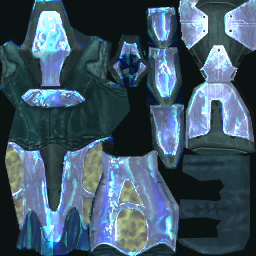
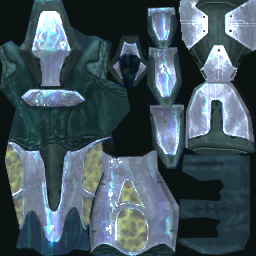
Ranger helmet in its body's material, cube-mapped eye lenses; deep-fried skin check
- The Ranger's helmet is baked like its body (the steel recolour and the Elites' armour reflection), brought down
  to the body's tone first; the Ranger's armour reflection is gentler overall
- The Ranger's eye lenses use the visor shader (a cube map per pixel), their normals bowed so it sweeps across them
- skin_check.py: every baked skin is scored against its source after each build (blown highlights, washed-out
  glare, brightness lift, crushed blacks, over-sharpening); HCE_STRICT_SKINS=1 fails the build

Claude-Session: https://claude.ai/code/session_01Ja8vbkayn83DPTjJrhXLXZ

diff --git a/generator/build_pack.py b/generator/build_pack.py
@@ -116,6 +116,8 @@ ELITE_H2_ARMOUR = {   # new rank -> (Halo CE variant it copies per gun, colour, 
                RANGER_STEEL, ('ranger_helmet', 'elite_jetpack'), ('HCE_Jetpack',)),
 }
 
+SKIN_PAIRS = []      # (source texture, baked skin): skin_check.py's deep-fried check after each build
+
 NOHEAD_BONES = ('bip01 head', 'frame mandible lower left', 'frame mandible lower right', 'frame mandible upper left',
                 'frame mandible upper right')
 
@@ -153,13 +155,17 @@ def nohead_iqm(src, dst):
     open(dst, 'wb').write(bytes(d))
     return cut
 
-def elite_kit_code(pieces, mdir='hce'):
+def elite_kit_code(pieces, mdir='hce', skins=()):
     """attach Halo 2's armour pieces (models 1..) to a CE Elite; a severed head takes its helmet (model 1) with it,
     a severed arm its plates (the honor armour's limb surfaces)"""
     kj = f'{ELITE_KIT}/EliteKit.json'
     limbs = json.load(open(kj)).get('limbs', {}) if os.path.exists(kj) else {}
     hid = f'"models/{mdir}/weapons", \'hce_hidden.png\', CMDL_USESURFACESKIN'
     att = ''.join(f'\t\tA_ChangeModel(\'None\', {k + 1}, "models/{mdir}/EliteKit", "{p}.iqm", {k + 1}, "", \'None\');\n' for k, p in enumerate(pieces))
+    for p, mesh, tex in skins:          # a piece's surface in another skin (the Ranger's helmet in its body's material)
+        si = limbs.get(p, []).index(mesh) if mesh in limbs.get(p, []) else -1
+        if si >= 0 and p in pieces:
+            att += f'\t\tA_ChangeModel(\'None\', {pieces.index(p) + 1}, "", \'None\', {si}, "models/{mdir}/EliteKit", \'{tex}\', CMDL_USESURFACESKIN);\n'
     sev = []
     head = pieces[0]
     if head in limbs:
@@ -173,6 +179,43 @@ def elite_kit_code(pieces, mdir='hce'):
             '\toverride void PostBeginPlay()\n\t{\n\t\tsuper.PostBeginPlay();\n' + att + '\t}\n'
             '\toverride void HCE_OnSever(int limb, bool gunArm)\n\t{\n\t\tsuper.HCE_OnSever(limb, gunArm);\n' + ''.join(sev) + '\t}\n')
 
+RANGER_HELMET_SKIN = 'ek_ranger_helmet_steel.png'
+RANGER_HELMET_TONE = 0.72
+
+def ranger_helmet_skin(dst):
+    """the Ranger's helmet in the same material as its body (bake_vivid + add_shine): Halo 2's helmet paint, its
+    light and shade kept, turned the Ranger's steel with the vivid ranks' highlight, then the Elites' rank cube-map
+    reflection baked in from the helmet's own normals (rasterised from the model into its texture), the paint's relief
+    bending it as on the body"""
+    from iqm import read_iqm
+    from scipy import ndimage
+    color = VIVID['elite ranger']
+    _, meshes, _ = read_iqm(f'{ELITE_KIT}/ranger_helmet.iqm')
+    base = Image.open(f'{ELITE_KIT}/ek_ranger_helmet.png').convert('RGB')
+    b = np.asarray(base).astype(np.float32) / 255.0
+    # Halo 2's helmet paint is a lot lighter than the CE body's: brought down to the body's (RANGER_HELMET_TONE) before
+    # the recolour, or the vivid ranks' highlight and the reflection wash it out (skin_check: glare, lift)
+    lum = b.mean(axis=2, keepdims=True) * RANGER_HELMET_TONE
+    col = np.array(color, np.float32).reshape(1, 1, 3)
+    rgb = np.clip(col * (0.12 + 1.15 * lum) + np.clip(lum - 0.62, 0, 1) * 0.8, 0, 1)      # bake_vivid's armour
+    faces = cube_faces(SHINE_CUBE['Elite'], cube_index('Elite', color))
+    if faces is not None:
+        W_, H_ = base.size
+        n = raster_normals(meshes, 'ek_ranger_helmet.png', (W_, H_)).copy()
+        lm = ndimage.gaussian_filter(rgb.mean(axis=2), 1.2)                                 # add_shine, the helmet's normals
+        gy, gx = np.gradient(lm)
+        t1 = np.cross(n, np.array([0, 0, 1.0], np.float32)); t1 /= np.maximum(np.linalg.norm(t1, axis=2, keepdims=True), 1e-3)
+        t2 = np.cross(n, t1)
+        n = n + (gx[..., None] * t1 + gy[..., None] * t2) * 6.0
+        n /= np.maximum(np.linalg.norm(n, axis=2, keepdims=True), 1e-6)
+        view = np.array([-1.0, 0.0, -0.25], np.float32); view /= np.linalg.norm(view)
+        r = view - 2 * (n @ view)[..., None] * n
+        env = np.clip(sample_cube(faces, r) * 1.15, 0, 1) ** 1.35 * 1.7
+        fres = 0.75 + 0.5 * (1 - np.abs(n @ view)) ** 2
+        spec = np.clip((lum[..., 0] - 0.08) * 4, 0, 1) * VIVID_SHINE['elite ranger']     # bare dark seals and vents stay dull
+        rgb = np.clip(rgb * (1 - 0.3 * spec[..., None]) + env * (spec * SHINE['Elite'] * fres)[..., None], 0, 1)
+    Image.fromarray((rgb * 255).astype(np.uint8)).save(dst)
+
 def add_elite_h2_armour(variants):
     import copy
     if not os.path.exists(f'{ELITE_KIT}/EliteKit.json'): return
@@ -185,7 +228,8 @@ def add_elite_h2_armour(variants):
             cl[0].update(color_lower_bound=list(rgb), color_upper_bound=list(rgb))
             v['change_colors_list'] = cl
             v['_late'] = True
-            v['_ov'] = dict(v.get('_ov') or {}, code=elite_kit_code(pieces), add_flags=list(extra), nohead=True)
+            skins = (('ranger_helmet', 'helmet_ranger_helmet_0', RANGER_HELMET_SKIN),) if rank == 'ranger' else ()
+            v['_ov'] = dict(v.get('_ov') or {}, code=elite_kit_code(pieces, skins=skins), add_flags=list(extra), nohead=True)
             variants[vn] = v
 
 add_elite_h2_armour(AI['variants'])
@@ -742,7 +786,7 @@ def cube_index(char, color):
     if h < 75: return 2
     return 0
 
-def add_shine(char, mat, rgb, color=None):
+def add_shine(char, mat, rgb, color=None, scale=1.0):
     """rgb (H, W, 3) floats 0..1, the finished skin colours -> with Halo's armour reflection baked in"""
     k = SHINE.get(char)
     mp = f'{OUT}/models/{char}/{mat}_multi.png'
@@ -766,6 +810,7 @@ def add_shine(char, mat, rgb, color=None):
     env = sample_cube(faces, r)
     fres = 0.75 + 0.5 * (1 - np.abs(n @ view)) ** 2                               # brighter towards grazing angles
     env = np.clip(env * 1.15, 0, 1) ** 1.35 * 1.7                                   # Halo adds it bright: its swirls read as liquid metal
+    spec = spec * scale
     s = env * (spec * k * fres)[..., None]
     if char in HUE_LOCK:
         # the Grunts: the Elites' rank cube only on the painted armour (Halo's colour-change mask); their bare metal,
@@ -892,9 +937,10 @@ def hue_lock(rgb, mask, color):
 # armour, came out a muddy olive. Halo draws it with a bright specular sheen we can't, so the armour is re-baked as
 # a vibrant gold that keeps the armour's shading (dark creases stay darker, raised edges catch the light).
 VIVID = {'elite commander': (1.00, 0.78, 0.22), 'elite ranger': (0.72, 0.78, 0.86)}   # the Ranger: Halo 2's pale EVA steel
+VIVID_SHINE = {'elite ranger': 0.35}     # how strong their armour's reflection is (on the pale steel the full one glared)
 UNDERSUIT = (0.30, 0.52, 0.52)
 
-def bake_vivid(char, mat, color, outpath):
+def bake_vivid(char, mat, color, outpath, shine=1.0):
     base = Image.open(f'{OUT}/models/{char}/{mat}.png').convert('RGB')
     mp = f'{OUT}/models/{char}/{mat}_multi.png'
     if not os.path.exists(mp):
@@ -914,7 +960,7 @@ def bake_vivid(char, mat, color, outpath):
     msk = msk * (1 - hm)
     o = suit * (1 - msk) + gold * msk
     glove = np.array(UNDERSUIT, dtype=np.float32).reshape(1, 1, 3) * (0.18 + 0.55 * lum)   # dark slate, shading kept
-    o = add_shine(char, mat, o * (1 - hm) + glove * hm, color)
+    o = add_shine(char, mat, o * (1 - hm) + glove * hm, color, shine)
     Image.fromarray(np.clip(o * 255, 0, 255).astype(np.uint8)).save(outpath)
 
 def hand_mask(char, mat, size):
@@ -1424,6 +1470,9 @@ def build(cfg=None):
             os.makedirs(f'{pack}/models/{mdir}/EliteKit', exist_ok=True)
             for f in os.listdir(ELITE_KIT):
                 if f.endswith(('.iqm', '.png')): shutil.copy(f'{ELITE_KIT}/{f}', f'{pack}/models/{mdir}/EliteKit/{f}')
+            if not os.path.exists(f'{pack}/models/{mdir}/EliteKit/{RANGER_HELMET_SKIN}'):
+                ranger_helmet_skin(f'{pack}/models/{mdir}/EliteKit/{RANGER_HELMET_SKIN}')
+            SKIN_PAIRS.append((f'{ELITE_KIT}/ek_ranger_helmet.png', f'{pack}/models/{mdir}/EliteKit/{RANGER_HELMET_SKIN}'))
         if char.startswith('Marine') and os.path.exists(f'{MARINE_KIT}/MarineKit.json'):    # Elefant's Marine kit
             os.makedirs(f'{pack}/models/{mdir}/MarineKit', exist_ok=True)
             for f in os.listdir(MARINE_KIT):
@@ -1679,7 +1728,7 @@ def build(cfg=None):
                 if not os.path.exists(dst):
                     vivid = next((c for k, c in VIVID.items() if k in vname), None)
                     if v.get('_hunter_color'): bake_hunter(char, matn, v['_hunter_color'], dst)
-                    elif vivid: bake_vivid(char, matn, vivid, dst)
+                    elif vivid: bake_vivid(char, matn, vivid, dst, next((x for k, x in VIVID_SHINE.items() if k in vname), 1.0))
                     elif elite_skin(char, matn, color, dst, specops='specops' in vname): pass
                     elif 'specops' in vname and (char.startswith('Elite') or (char == 'GruntSpecOps' and max(color or (1,)) < 0.2)):
                         # the Spec Ops body's own textures: baked as a blue Minor (the blue cube-map sheen the painted
@@ -1689,6 +1738,7 @@ def build(cfg=None):
                         if char == 'GruntSpecOps': grunt_purple(char, matn, dst)
                         else: purple(Image.open(dst).convert('RGB')).save(dst)
                     else: bake_skin(char, matn, color, dst)
+                SKIN_PAIRS.append((f'{OUT}/models/{char}/{matn}.png', dst))        # skin_check: the bake against its source
                 skin_lines.append(f'\tSurfaceSkin 0 {si} "skins/{fn}"')
             friendly = '\t\t+FRIENDLY\n' if team[char] == 'HUMAN' else ''
             props = f'''\t\tHealth {body};
@@ -1899,6 +1949,7 @@ def build(cfg=None):
     gl += odst_visors(pack, mdir, md)
     # the Marine kit's enclosed helmets: the same reflection on their orange visor
     gl += kit_visors(pack, mdir)
+    gl += elite_lens_visors(pack, mdir)
     tg = cfg['tag']
     open(f'{pack}/gldefs.{tg}', 'w').write('\n'.join(gl) + '\n')
     # HCEM A: placeholder sprite. Models draw instead, but the map spawner rejects actors whose sprite
@@ -1914,6 +1965,11 @@ def build(cfg=None):
     open(f'{pack}/mapinfo.txt', 'w').write('\n'.join(mi))
     json.dump(dict(ednums=ednums, spawners=spawners), open(f'{OUT}/{cfg["index"]}', 'w'), indent=1)
     print('classes', len(ednums), 'projectiles', len(done))
+    # deep-fried skins: every baked skin against the texture it was baked from (skin_check.py; HCE_STRICT_SKINS=1 fails
+    # the build on one)
+    import skin_check
+    skin_check.report_pairs(SKIN_PAIRS)
+    SKIN_PAIRS.clear()
 
 # per-character extra ZScript (Flood corpse feeding, carrier pop, infection pop)
 BASE_CODE = {}       # char -> ZScript put in its abstract base class once (shared by all its variants)
@@ -2515,6 +2571,24 @@ def kit_visors(pack, mdir):
         out.append(f'material texture "models/{mdir}/MarineKit/{tex}"\n{{\n\tshader "shaders/hce_visor.fp"\n'
                    f'\ttexture tex_cube "models/{mdir}/MarineKit/{KIT_VISOR_CUBE}"\n}}')
     return out
+
+ELITE_LENSES = ('ek_ranger_lens.png',)   # Halo 2's Ranger's gold eye lenses (extract_h2_elite_kit.py)
+ELITE_LENS_CUBE = 'ek_visor_cube.png'
+
+def elite_lens_visors(pack, mdir):
+    """the Ranger's eye lenses get the visors' cube-map reflection (VISOR_SHADER, tinted by the lens's own gold, over
+    Halo CE's cyborg reflection cube map, as the ODST and kit visors)"""
+    d = f'{pack}/models/{mdir}/EliteKit'
+    lenses = [t for t in ELITE_LENSES if os.path.exists(f'{d}/{t}')]
+    if not lenses: return []
+    if not os.path.exists(f'{MARINE_KIT}/{KIT_VISOR_CUBE}'):
+        from extract_odst import cube_strip
+        cube_strip('cyborg', f'{MARINE_KIT}/{KIT_VISOR_CUBE}')
+    shutil.copy(f'{MARINE_KIT}/{KIT_VISOR_CUBE}', f'{d}/{ELITE_LENS_CUBE}')
+    os.makedirs(f'{pack}/shaders', exist_ok=True)
+    open(f'{pack}/shaders/hce_visor.fp', 'w').write(VISOR_SHADER)
+    return [f'material texture "models/{mdir}/EliteKit/{t}"\n{{\n\tshader "shaders/hce_visor.fp"\n'
+            f'\ttexture tex_cube "models/{mdir}/EliteKit/{ELITE_LENS_CUBE}"\n}}' for t in lenses]
 
 def odst_visors(pack, mdir, md):
     """GLDEFS materials giving each ODST visor skin the visor shader and its cube map"""

diff --git a/generator/skin_check.py b/generator/skin_check.py
@@ -1,0 +1,124 @@
+"""Deep-fried skin check: flags baked textures that have been pushed too far (blown-out highlights, neon saturation,
+crunchy over-sharpened contrast, crushed blacks), so a recolour or a baked reflection that glares is caught at build
+time instead of in game.
+
+    python3 skin_check.py [dir or png ...]     # report on these (default: every texture build_pack.py baked into pack/)
+    import skin_check; skin_check.report(paths)  # build_pack.py runs it after baking; HCE_STRICT_SKINS=1 makes it fail
+
+A baked skin is judged against the texture it was baked from (build_pack.py registers each pair: SKIN_PAIRS), since
+deep frying is what a bake does to a texture: a source that is meant to be a flat bright colour stays fine. Each is
+scored on what "deep fried" looks like, measured over its painted texels (fully transparent and flat-black padding
+left out):
+  * blown:  share of texels with a channel at 250+ (detail lost to white or a pure primary)
+  * neon:   share of bright texels (value > 0.8) that are also near-fully saturated (saturation > 0.85)
+  * crunch: high-frequency contrast (mean absolute Laplacian) per unit of the texture's own tonal range -- noise and
+            edges sharpened up past what a painted game texture has
+  * crush:  share of texels at 5 or below in every channel (shadow detail lost to black)
+  * glare:  share of near-white texels: value 0.85 and up with little colour left (saturation under 0.4), where
+            highlights and reflections wash the paint out (a bright, saturated gold or orange is paint, not glare)
+  * lift:   mean value (brightness)
+A bake fails when it raises one of these past PAIR_LIMITS over its source (crunch as a ratio). The limits sit just
+above the worst of the pack's approved skins (Halo CE's painted skins, the ranks' recolours, the kit; neon is reported
+but not judged: the red Hunters and the Grunts' oranges are meant to be loud), so a new bake has to look like them;
+the Ranger's first steel helmet (glare +0.09, lift +0.19) is the case it was written for.
+Textures that are meant to glow (energy blades, shields, lights, visors, the flag) are left out.
+"""
+import os, sys, json
+import numpy as np
+from PIL import Image
+
+LIMITS = dict(blown=0.08, neon=0.30, crunch=0.55, crush=0.35)          # a texture on its own (no source)
+PAIR_LIMITS = dict(blown=0.25, crunch=2.2, crush=0.03, glare=0.12, lift=0.16)    # a bake against its source
+SKIP = ('blade', 'shield', 'visor', 'lens', 'flag', 'light', 'glow', 'illum', 'hidden', 'brightmap', 'cube', 'gore_',
+        'blood', 'camo', 'flame', 'exhaust', 'muzzle', 'hce_noblood', 'eyes', 'teeth', 'sword')
+
+
+def metrics(path):
+    im = Image.open(path)
+    a = np.asarray(im.convert('RGBA'), np.float32)
+    rgb = a[..., :3]; alpha = a[..., 3]
+    painted = (alpha > 8) & (rgb.max(axis=2) > 2)
+    if painted.sum() < 64: return None
+    px = rgb[painted]
+    mx = px.max(axis=1); mn = px.min(axis=1)
+    v = mx / 255.0; sat = np.where(mx > 0, (mx - mn) / np.maximum(mx, 1e-6), 0)
+    blown = float((mx >= 250).mean())
+    bright = v > 0.8
+    neon = float(((sat > 0.85) & bright).sum() / max(bright.sum(), 1)) if bright.sum() > 32 else 0.0
+    crush = float((mx <= 5).mean())
+    glare = float(((v >= 0.85) & (sat < 0.4)).mean()); lift = float(v.mean())
+    lum = rgb.mean(axis=2)
+    lap = np.abs(4 * lum[1:-1, 1:-1] - lum[:-2, 1:-1] - lum[2:, 1:-1] - lum[1:-1, :-2] - lum[1:-1, 2:])
+    m = painted[1:-1, 1:-1]
+    rng = np.percentile(lum[painted], 95) - np.percentile(lum[painted], 5)
+    crunch = float(lap[m].mean() / max(rng, 8.0)) if m.sum() > 0 else 0.0
+    return dict(blown=blown, neon=neon, crunch=crunch, crush=crush, glare=glare, lift=lift)
+
+
+def judge(m):
+    return [k for k, lim in LIMITS.items() if m[k] > lim]
+
+
+def judge_pair(out, src):
+    """the measures a bake pushed past PAIR_LIMITS over its source, with how far"""
+    bad = {}
+    for k, lim in PAIR_LIMITS.items():
+        d = out[k] / max(src[k], 0.02) if k == 'crunch' else out[k] - src[k]
+        if d > lim: bad[k] = d
+    return bad
+
+
+def report_pairs(pairs, quiet=False):
+    """[(source png, baked png)] -> [(baked, {measure: rise})] for the deep-fried ones (printed); each baked file once"""
+    bad = []; seen = set(); cache = {}
+    def m(p):
+        if p not in cache: cache[p] = metrics(p) if os.path.exists(p) else None
+        return cache[p]
+    for src, out in pairs:
+        if out in seen or any(k in os.path.basename(out).lower() for k in SKIP): continue
+        seen.add(out)
+        a, b = m(out), m(src)
+        if not a or not b: continue
+        f = judge_pair(a, b)
+        if f: bad.append((out, f))
+    if not quiet:
+        print(f'skin check: {len(seen)} baked skins against their sources, {len(bad)} look deep fried')
+        for out, f in bad:
+            print(f'  DEEP FRIED {out}: ' + ', '.join(f'{k} +{d:.2f} (limit {PAIR_LIMITS[k]})' if k != 'crunch' else f'crunch x{d:.2f} (limit {PAIR_LIMITS[k]})' for k, d in f.items()))
+    if bad and os.environ.get('HCE_STRICT_SKINS') == '1':
+        raise SystemExit(f'skin check failed: {len(bad)} deep-fried skins')
+    return bad
+
+
+def collect(paths):
+    out = []
+    for p in paths:
+        if os.path.isdir(p):
+            for root, _, fs in os.walk(p):
+                out += [os.path.join(root, f) for f in fs if f.lower().endswith('.png')]
+        elif p.lower().endswith('.png'): out.append(p)
+    return [p for p in sorted(out) if not any(k in os.path.basename(p).lower() for k in SKIP)]
+
+
+def report(paths, quiet=False, out_json=None):
+    """score every texture under paths; print the deep-fried ones; returns [(path, failed measures, metrics)]"""
+    bad = []; allm = {}
+    for p in collect(paths):
+        m = metrics(p)
+        if m is None: continue
+        allm[p] = m
+        f = judge(m)
+        if f: bad.append((p, f, m))
+    if out_json: json.dump(allm, open(out_json, 'w'), indent=0)
+    if not quiet:
+        print(f'skin check: {len(allm)} textures, {len(bad)} look deep fried')
+        for p, f, m in bad:
+            print(f'  DEEP FRIED {p}: ' + ', '.join(f'{k} {m[k]:.2f} (limit {LIMITS[k]})' for k in f))
+    if bad and os.environ.get('HCE_STRICT_SKINS') == '1':
+        raise SystemExit(f'skin check failed: {len(bad)} deep-fried textures')
+    return bad
+
+
+if __name__ == '__main__':
+    args = sys.argv[1:] or [os.path.join(os.path.dirname(os.path.abspath(__file__)), 'pack', 'models')]
+    report(args)

diff --git a/generator/extract_h2_elite_kit.py b/generator/extract_h2_elite_kit.py
@@ -84,6 +84,30 @@ def colour_map(m, hb, bms, out):
     print('   ', out, 'from', diff[0].split('\\')[-1], 'bump' if bump else '', 'detail' if det else '')
 
 
+LENS_BULGE = 1.6       # how far the lens normals lean out from each lens's centre (a domed glass for the visor shader)
+
+
+def bulge(P, N, tris):
+    """a flat lens's normals leaned outward from the centre of each separate lens (its connected triangles), as if the
+    glass were domed: the visor shader's cube-map reflection then sweeps across it instead of one flat colour"""
+    n = len(P); parent = list(range(n))
+    def f(x):
+        while parent[x] != x: parent[x] = parent[parent[x]]; x = parent[x]
+        return x
+    for t in tris:
+        a, b, c = f(int(t[0])), f(int(t[1])), f(int(t[2])); parent[b] = a; parent[f(c)] = a
+    roots = np.array([f(i) for i in range(n)]); out = N.copy()
+    for r in set(roots.tolist()):
+        k = roots == r
+        if k.sum() < 3: continue
+        c = P[k].mean(0); rad = max(np.linalg.norm(P[k] - c, axis=1).max(), 1e-6)
+        avg = N[k].mean(0); avg /= max(np.linalg.norm(avg), 1e-6)
+        d = P[k] - c; d -= (d @ avg)[:, None] * avg                       # in the lens's own plane
+        v = avg + LENS_BULGE * d / rad
+        out[k] = v / np.linalg.norm(v, axis=1, keepdims=True)
+    return out
+
+
 def lens_texture():
     from PIL import Image
     t, b = np.array(LENS_RGB[0]), np.array(LENS_RGB[1])
@@ -161,6 +185,7 @@ def main():
             else:
                 mat = texture_for(R, mm['shader'])
             P, N, cb, w8 = retarget(mm, h2w, cew, tomap)
+            if mat == LENS: N = bulge(P, N, mm['tris'])
             tris = np.array(mm['tris'])[:, [0, 2, 1]]
             # one surface per limb (body, left arm, right arm), so a severed arm's plates can go with it
             limb = np.array([LIMB.get(J[cb[t[0], 0]][0], 0) for t in tris]) if pid in SPLIT else np.zeros(len(tris), int)

diff --git a/docs/PACK_README.md b/docs/PACK_README.md
@@ -321,7 +321,7 @@ DoomEdNums 30284–30316 (alphabetical: `HCE_MarineArmoredBattleRifle` … `HCE_
   * They get the same baked armour shine as the other Grunts, and are in the `HCE_RandomGrunt` / `HCE_RandomGruntSpecOps` spawners; Doom's monsters aren't replaced by them.
 * **Elite Heavy (new, green):** a rank between the Major and the Commander, in a deep green (the blue Minor's painted armour turned green, its shading and shine kept): 125 health and a 200-point shield, the Major's combat behaviour, and the heavier guns: the fuel rod in Halo 2's fuel-rod stance (`HCE_EliteHeavyFuelRod`, 30322), the plasma rifle (`HCE_EliteHeavyPlasmaRifle`, 30324) and the needler (`HCE_EliteHeavyNeedler`, 30323). In the random Elite pool, and among the Hell Knights' replacements on the harder skill levels.
 * **Honor Guard Elites (new):** the High Council's guard in Halo 2's honour armour, worn over the Halo CE Elite (`extract_h2_elite_kit.py`: Halo 2's Elite and Halo CE's are the same skeleton, so its pieces are carried bone by bone onto the CE Elite and play every CE animation). The tall twin-crested ceremonial helmet over Halo 2's Elite head, and the honour plates on the shoulders, arms and thighs, blue with their glowing red markings; the CE Elite's own head and helmet are cut away underneath, so nothing clashes. The Commander's build (they guard the Prophets) in a crimson harness, with the **plasma rifle** (`HCE_EliteHonorGuardPlasmaRifle`, 30345), the **energy sword** (`HCE_EliteHonorGuardEnergySword`, 30344, charging and berserk like the sword Elites) or the **plasma carbine** (`HCE_EliteHonorGuardPlasmaCarbine`, 30457, Digsite add-on): the Honor Guards' guns in Halo's fiction. A severed head takes the helmet with it, a severed arm its plates.
-* **Ranger Elites (new):** Halo 2's EVA Elites from Regret's towers, with a **jump pack**. Halo 2's sealed Ranger helmet, with its gold lens, over the CE Elite with its own head cut away, and Halo 2's jump pack on its back (placed where Halo 2's Ranger carries it), in pale EVA steel. A Minor's build (Halo 2's `elite_ranger` char: 30 body, 70 shield), with the **plasma rifle** (`HCE_EliteRangerPlasmaRifle`, 30347), the **needler** (`HCE_EliteRangerNeedler`, 30346) or the **plasma carbine** (`HCE_EliteRangerPlasmaCarbine`, 30458, Digsite add-on).
+* **Ranger Elites (new):** Halo 2's EVA Elites from Regret's towers, with a **jump pack**. Halo 2's sealed Ranger helmet, with its gold eye lenses (reflecting a cube map per pixel like the ODST visors, the glass bowed so the reflection sweeps across it), over the CE Elite with its own head cut away, and Halo 2's jump pack on its back (placed where Halo 2's Ranger carries it), in pale EVA steel; the helmet is baked in the same material as the body (the same steel and the same, gentler, armour reflection). A Minor's build (Halo 2's `elite_ranger` char: 30 body, 70 shield), with the **plasma rifle** (`HCE_EliteRangerPlasmaRifle`, 30347), the **needler** (`HCE_EliteRangerNeedler`, 30346) or the **plasma carbine** (`HCE_EliteRangerPlasmaCarbine`, 30458, Digsite add-on).
   * **The jump pack:** now and then in a fight, with its enemy in sight, a Ranger fires the pack and lifts onto higher ground near by (a ledge, a crate, a balcony with room to stand) or, with none, hops to a fresh spot at fighting range. It climbs on a jet of blue exhaust and drifts down slowly on the pack, firing as it goes; spots are open floor (never a damaging one) with headroom, no wall in the way at the height of the hop and not too close to the enemy. HaloDoom Evolved's jetpack sounds where HDE is loaded.
 * **Fuel-rod Elite (new, `HCE_EliteMajorFuelRod`, 30282):** a Major Elite with the fuel rod gun, in **Halo 2's fuel-rod stance**. Halo CE's and Halo 2's Elites are the same 3ds Max biped: every CE bone has a Halo 2 twin with the same parent and the same offset in its parent's frame, so Halo 2's animations play on the CE Elite as they are (`h2_elite_anims.py`). It gets Halo 2's fuel-rod idle, moves, turns, dives, evades, grenade throw, berserk, melee and the firing overlay. Its firing data is the Spec Ops Grunt's fuel rod; it drops HDE's fuel rod.
 * **Beam-rifle Spec Ops Elite (new, `HCE_EliteSpecopsBeamRifle`, 30283):** the Spec Ops plasma-rifle Elite with Halo 2's beam rifle, in Halo 2's own Elite rifle stance (the same rig match), fighting from further back (combat range 480–1760).

diff --git a/generator/README.md b/generator/README.md
@@ -75,6 +75,7 @@ for f in core covenant flood sentinels marines; do (cd factions/$f && zip -r9 ..
 | `marine_plasma_grip.py` | The plasma rifle's Marine stance (`h2plasma`: Halo 2's rifle set, the left hand IK'd under the gun's lower prong) added to Marines already extracted; a full `extract_chars.py` run makes it too. Run after `cyborg_flame_anims.py` |
 | `extract_h2_elite_kit.py` | Halo 2's Elite armour on the Halo CE Elite (`01b_spacestation.map`), carried bone by bone like the Halo 2 ODST (the two Elites are the same biped; Halo 2's jaw, face and finger bones go rigidly with the head or hand): `honor_helmet.iqm` (the Honor Guard's crested helmet over Halo 2's Elite head), `honor_armor.iqm` (its ceremonial plates, one surface per limb so a severed arm takes its plates), `ranger_helmet.iqm` (the Ranger's sealed EVA helmet, head and gold lens) and `elite_jetpack.iqm` (the jump pack where the Ranger's `jetpack` marker puts it). Colour maps with Halo 2's bump shading, detail maps and the honour armour's glowing markings baked in -> `$HCE_OUT/models/EliteKit`. `build_pack.py` puts them on the Honor Guard and Ranger Elites (`ELITE_H2_ARMOUR`), worn on a copy of the CE Elite with its head cut away (`nohead_iqm`) |
 | `extract_h2_pilot.py` | Halo 2's pilots: each of the Halo 2 Marine's six faces under its `pilot` flight helmet and smoked visor, as whole-head Marine kit pieces (`h2_pilot_<face>.iqm`) on the CE head bone; only the Pilots wear them (`build_pack.PILOT_CODE`). Run after `extract_marine_kit.py` |
+| `skin_check.py` | The deep-fried check: `build_pack.py` scores every baked skin against the texture it was baked from (`SKIN_PAIRS`) and prints the ones a bake pushed too far: blown highlights, washed-out near-white glare, a brightness lift, crushed blacks, or over-sharpened contrast (`PAIR_LIMITS`, set just above the worst of the pack's approved skins). It warns; `HCE_STRICT_SKINS=1` fails the build. `python3 skin_check.py <dir or png ...>` scores textures on their own |
 | `marine_h2_grips.py` | Halo 2's rifle set held at the cheek on the CE bodies (it carries the gun level with the top of the helmet), by two-bone IK: the right wrist moved down `LOWER` world units (the hand keeps its rotation, the gun goes with it) and the left hand re-solved onto the gun. `h2br` (Marine, Armored Marine, ODST) is lowered in place, the amount applied kept in the json (`h2br_lowered`) so a re-run makes up only the difference. `h2ar` and `h2shotgun` (ODST body only) are made fresh from `h2rifle` each run, with the left hand on Halo CE's assault-rifle handguard / shotgun pump (`H2_GUNS`): the Halo 2 ODSTs' stances (`build_pack.ODST_BODY_STANCE`), so they idle, move and fight like Halo 2's Marines. Run after `cover_anims.py` and `extract_odst.py` |
 | `extract_odst.py` | The ODSTs: Spiral's Halo CE ODST, read from `a50_1.map` (`HCE_SPV3_A50`) on the Marine's skeleton with every animation `out/models/Marine/Marine.iqm` has (run after the Marine steps), the Marine's arsenal overlays and hand frame, and Fire Team Raven (Connor Dawn's models) from `a10` (`HCE_SPV3_A10`) as extra skins. The visor's reflection (its shader's cube map and tints) goes in the json for `build_pack.py`'s visor shader. Then `blood_kit.py MarineODST`. Needs `extract_cubemaps.py` (the cyborg cube) |
 | `brute_captain_flag.py` | Halo 2's Brute Captain hologram flag: the cloth grid (`effects\objects\characters\brute\captain_flag`) from 08b on the Brute's 'flag attach' marker as an attachment model on the Brute skeleton, and its pennant texture in the shader's red. `build_digsite.py` draws it on a companion actor with the hologram shader. Run after `extract_h2_brute.py` |
